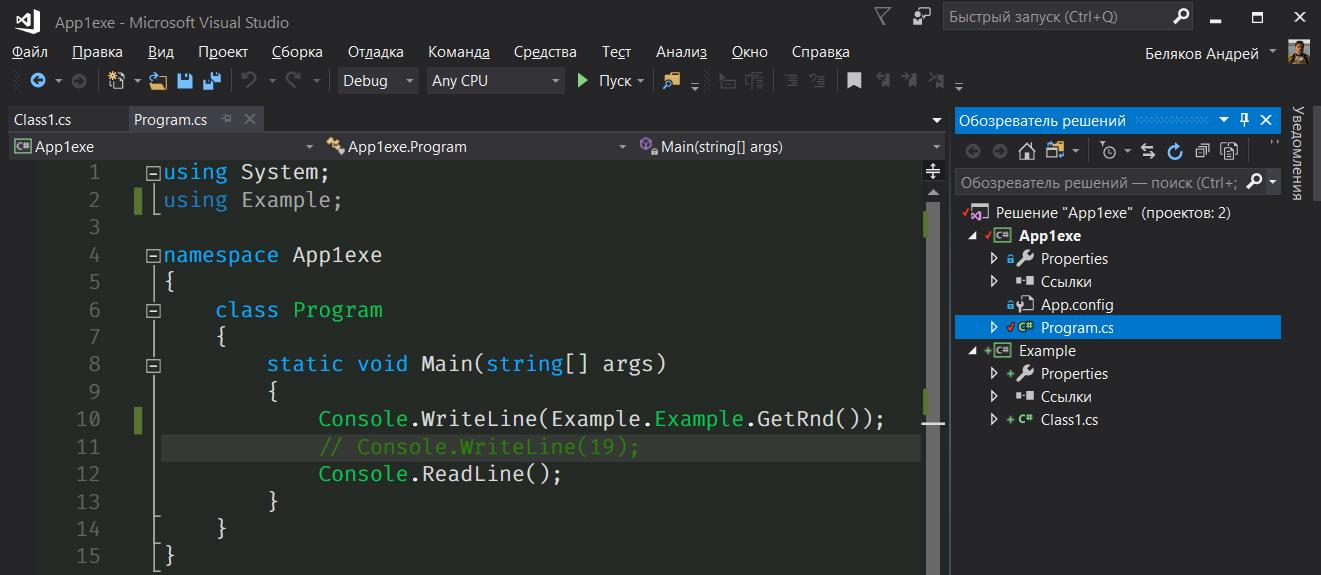
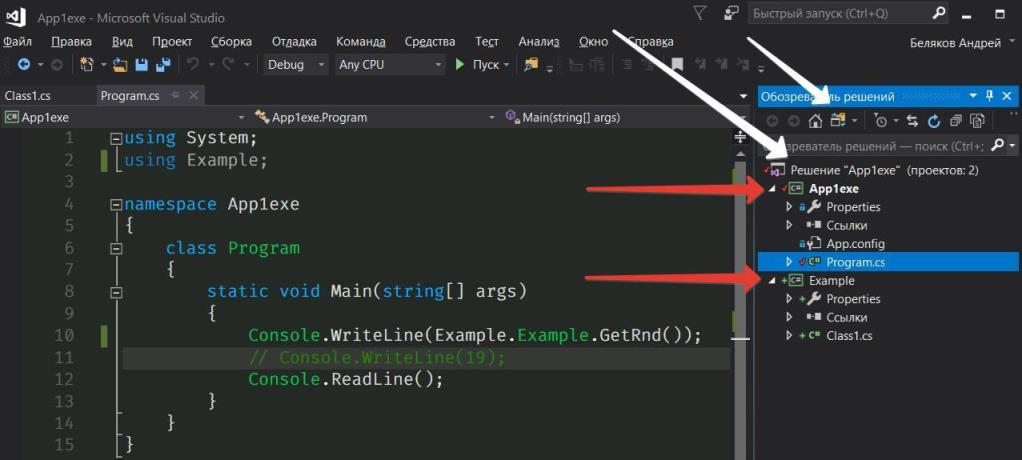
+

diff --git a/unit-02/readme.md b/unit-02/readme.md
@@ -15,29 +15,36 @@
 
 ---
 
+некоторые возможности дизассемблера из сборки (.exe или .dll)  
 C:\Program Files (x86)\Microsoft SDKs\Windows\v10.0A\bin\NETFX 4.8 Tools\ildasm.exe  
 ![ILDASM.jpg](ILDASM.jpg)
 
+как сделать Одно решение из нескольких проектов...  
+варианты представления в Обозревателе решений  
+![projects.jpg](projects.jpg)
+
+
 _Практика:_
 
-* аргументы Main(string[] args)
+* типы данных
+* примитивные типы данных
 * декларируем класс
 * создаём объект
 * создаём список объектов
-* поле static из объекта
+* поле static из класса
 * перегрузка методов, конструкторов
-* типы данных
-* примитивные типы данных
 
 ---
 
-Техническое задание unit-02 - взять за основу решение с Лекции и доработать:  
+Лабораторная работа 7 - 23.05.2020
+Техническое задание по модулю unit-02 - взять за основу решение с Лекции и доработать:  
 * чтобы точки были разного цвета
 * чтобы при движении точки следы за ней затирались
 * чтобы точки отражались от верхней/нижней стороны
 * чтобы при нажатии на пробел точки останавливались, при следующем нажатии запускались
 * чтобы при нажатии влево/вправо смещались влево/вправо с учётом не выхода за границы
 * чтобы при генерации точек не было совпадающих по координатам точек
+_пример работы модно увидеть в папке [example](https://github.com/permCoding/se-20/tree/master/unit-02/example)_  
 
 --- 
 
@@ -60,27 +67,17 @@ step-06 ...
 далее самостоятельное творчество
 ```
 
---- 
-Это рассмотрим в дальнейшем:  
-* передача параметров по ссылке, по значению
-
+можно эти шаги увидеть:
+- в папке [part-02](https://github.com/permCoding/se-20/tree/master/unit-02/example)  
+- в отдельном репозитории (позже будет удалён), который делали прямо на Лекции с последовательной фиксацией всех шагов коммитами - [Points](https://github.com/permCoding/Points)
   
-
   
-
-  
-
-  
-
-  
-
-  
-
 ---
 
 **далее - это материал для использования на последующих занятиях - ещё не раскрыт**  
 Концепции:  
-
+* аргументы Main(string[] args)
+* передача параметров по ссылке, по значению
 * partial class
 
 
